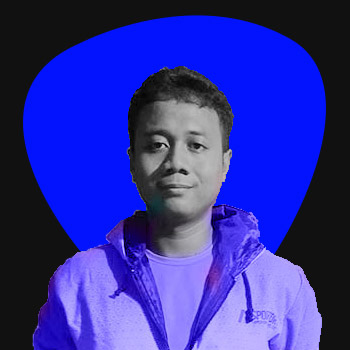
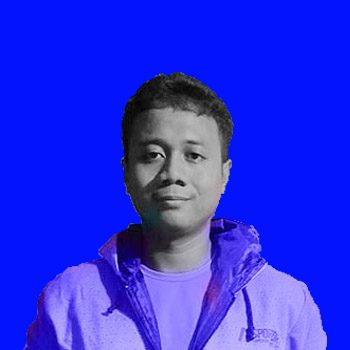
melakukan perbaikan pada navbar di file css/style.css img/bg-new.jpg index.html js/script.js

diff --git a/index.html b/index.html
@@ -17,21 +17,26 @@
  
   <body>
      <!--  <First nav>  -->
-    <nav class="navbar navbar-dark navbar-expand-md navbar-fixed-top">
+    <nav class="navbar  navbar-inverse navbar-fixed-top">
        <div class="container">
-        <a class="navbar-brand " href="parallax.html" >
-          <span class="brand">Candra Yusuf Irawan</span>
-        </a>
         <div class="navbar-header">
-         
-          <button type="button" class="navbar-toggle collapsed" data-toggle="collapse" data-target="#bs-example-navbar-collapse-1" aria-expanded="false">             
-          <span class="glyphicon glyphicon-menu-hamburger" aria-hidden="true"></span> 
-        
-      </button>    
+          
+          <button type="button" class="navbar-toggle collapsed" data-toggle="collapse" data-target="#bs-example-navbar-collapse-1" aria-expanded="false">
+            <span class="sr-only">Toggle navigation</span>
+            <span class="icon-bar"></span>
+            <span class="icon-bar"></span>
+            <span class="icon-bar"></span>
+          </button>
+          <a  href="parallax.html" class="navbar-brand " style="color: rgb(2, 19, 252);">
+            <span class="brand">Candra Yusuf Irawan</span>
+          </a>
         </div>
+
+       
+
          <div class="collapse navbar-collapse" id="bs-example-navbar-collapse-1">
-         <ul class="nav navbar-nav   text-center navbar-right">
-          <li class="li1"><a href="#home"  class="page-scroll "><span class="glyphicon glyphicon glyphicon-home" aria-hidden="true"></span>Home</a></li>
+         <ul class="nav navbar-nav  text-center navbar-right">
+          <li class="li1"><a href="#home" class="page-scroll "><span class="glyphicon glyphicon glyphicon-home" aria-hidden="true"></span>Home</a></li>
           <li class="li2"><a href="#about" class="page-scroll"><span class="glyphicon glyphicon glyphicon-user" aria-hidden="true"></span>About</a></li>
           <li class="li3"><a href="#portfolio" class="page-scroll"><span class="glyphicon glyphicon glyphicon-book" aria-hidden="true"></span>Portfolio</a></li>
           <li class="li4"><a href="#contact" class="page-scroll"><span class="glyphicon glyphicon glyphicon-earphone" aria-hidden="true"></span>Contact</a></li>
@@ -43,14 +48,17 @@
     <!--Last Navbar-->
      
     <!--Jumbotron-->
-      <section class="jumbotron">
-        <div class="container text-center">
-          <img src="img/bg-new.jpg" width="300" class="Myimage"> 
-          <div class="lead">       
-            <h6 class="satu">I'm Candra Yusuf Irawan</h6>
-            <h6 class="dua">Programmer Front End </h6>
-            <p class="ptiga">Creative Portfolio</p>
-          </div>     
+      <section class="jumbotron text-center">
+        <div class="container ">
+           
+              <div class="lead">    
+                <img src="img/cdr.jpg" width="200" class="img-circle"> 
+                <h6 class="satu">I'm Candra Yusuf Irawan</h6>
+                <h6 class="dua">Programmer Front End </h6>
+                <p class="ptiga">Creative Portfolio</p>
+              </div>    
+        
+              
         </div>
       </section>
      
@@ -66,27 +74,24 @@
 
           <div class="row">
            <div class="col-sm-6">
-            <p class="pKiri">Saya Candra Yusuf Irawan jurusan sistem Komputer  Universitas Borobudur jakarta Lulusan tahun 2022. Aktivitas saya saat ini adalah sebagai jobseeker/pencari kerja dan sedang berlatih meningkatkan kemampuan  bahasa pemrograman JavaScript, Git, dan github. Saya memiliki minat karir
-              sebagai Frontend Developer dan mampu dalam melakukan pembuatan website menggunakan HTML, CSS, JavaScript dengan framework Bootstrap. Saya juga pernah aktif dalam kegiatan Organisasi pada acara LDKOM
-            (Latihan dasar kepemimpinan Organisasi Mahasiswa) 2019 di Bogor.</p>
+            <p class="pKiri">Saya Candra Yusuf Irawan jurusan sistem Komputer  Universitas Borobudur jakarta Lulusan tahun 2022. Aktivitas saya saat ini adalah sebagai jobseeker/pencari kerja dan sedang berlatih meningkatkan kemampuan  bahasa pemrograman JavaScript. Selain meningkatkan skill bahasa pemrograman Saya
+              juga sedang berlatih dan memahami tata cara penggunaan git dan github. Saya memiliki minat karir
+              sebagai Frontend Developer dan mampu dalam melakukan pembuatan website menggunakan HTML, CSS, JavaScript dengan framework Bootstrap.</p>
            
           
           </div>
             <div class="col-sm-6">
               <p class="pKanan" > 
-                Kampus saya mengajarkan saya tentang dasar-dasar pemrograman seperti html dan css, Teliti terhadap kesalahan variabel, teliti terhadap titik koma, mengajarkan bagaimana caranya bertanggungjawab, berkomunikasi dengan baik dalam tim,
-                kerjasama tim, mengatasi masalah, dan mengajarkan bagaimana caranya bekerja keras. Aktivitas  yang saya lakukan 
-                selama saya kuliah hingga selesai pendidikan adalah sebagai berikut.
-                <ol class="Listp">
+                 Aktivitas  yang saya lakukan selama saya kuliah hingga selesai pendidikan adalah sebagai berikut.
+                <ol>
                   <li>Membuat Form input sederhana menggunakan HTML yang umumnya digunakan untuk proses login, mengirim data, dan yang lainnya</li>
                   <li>Membuat tombol button untuk mengirim data menggunakan HTML</li>
                   <li>Membuat List terurut yang didalamnya terdapat item - item seperti home, about, dengan menggunakan HTML</li>
-                  <li>Membentuk 2 orang tim untuk mengerjakan tugas, membuat tabel yang didalamnya terdapat tampilan image, dalam tabel tersebut harus menampilkan 1 baris 3 kolom</li>
+                  <li>Membentuk 2 orang tim untuk mengerjakan tugas, membuat tabel yang didalamnya terdapat tampilan image, 1 baris 3 kolom</li>
                   <li>Membuat website sederhana menggunakan HTML dan CSS</li>
                   <li>Membuat responsive mobile sehingga dapat digunakan di hp android menggunakan HTML, CSS, JavaScript</li>
                   <li>Membuat Website menggunakan framework Bootstrap versi 3.3 dengan HTML, CSS, Javascript</li>
-                  <li>Membuat Website menggunakan Bootstrap versi terbaru yaitu 5.0  menggunakan HTML, dan CSS.
-                    
+                  <li>Membuat Website menggunakan Bootstrap versi terbaru yaitu 5.0  menggunakan HTML, dan CSS.   
                   </li>
                   <li>Membuat Website Company, menggunakan framework materializecss dengan code HTML, CSS, dan Javascript.</li>
                 </ol>

diff --git a/js/script.js b/js/script.js
@@ -25,7 +25,7 @@ $(window).scroll(function () {
   var wScroll = $(this).scrollTop();
 
   //Jumbotron
-  $(" .jumbotron .Myimage").css({
+  $(" .jumbotron img").css({
     transform: "translate(0px, " + wScroll / 4 + "%)",
   });
   //////////////////////
@@ -54,13 +54,13 @@ $(window).scroll(function () {
 //fa
 
 ///////////////////////
-const ulLiA = document.querySelectorAll(".navbar-expand-md ul li a");
+const ulLiA = document.querySelectorAll(".navbar ul li a");
 ulLiA[0].style.color = "rgb(255,255,255)";
 ulLiA[1].style.color = "rgb(255,255,255)";
 ulLiA[2].style.color = "rgb(255,255,255)";
 ulLiA[3].style.color = "rgb(255,255,255)";
 ///////////////////////
-const li1 = document.querySelectorAll(".navbar-expand-md ul li a");
+const li1 = document.querySelectorAll(".navbar ul li a");
 li1[0].addEventListener("mouseenter", function () {
   li1[0].style.color = "rgb(255, 255, 255)";
   li1[0].style.background = "rgb(70, 3, 255)";
@@ -76,7 +76,7 @@ li1[0].addEventListener("mouseleave", function () {
   li1[0].style.letterSpacing = "0.0em";
 });
 //////////////////////////////////////////////////
-const li2 = document.querySelectorAll(".navbar-expand-md ul li a");
+const li2 = document.querySelectorAll(".navbar ul li a");
 li2[1].addEventListener("mouseenter", function () {
   li2[1].style.color = "rgb(255, 255, 255)";
   li2[1].style.background = "rgb(70, 3, 255)";
@@ -90,7 +90,7 @@ li2[1].addEventListener("mouseleave", function () {
   li2[1].style.letterSpacing = "0.0em";
 });
 ////////////////////////////////////////////////
-const li3 = document.querySelectorAll(".navbar-expand-md ul li a");
+const li3 = document.querySelectorAll(".navbar ul li a");
 li3[2].addEventListener("mouseenter", function () {
   li3[2].style.color = "rgb(255, 255, 255)";
   li3[2].style.background = "rgb(70, 3, 255)";
@@ -104,7 +104,7 @@ li3[2].addEventListener("mouseleave", function () {
   li3[2].style.letterSpacing = "0.0em";
 });
 ////////////////////////////////////////////
-const li4 = document.querySelectorAll(".navbar-expand-md ul li a");
+const li4 = document.querySelectorAll(".navbar  ul li a");
 li4[3].addEventListener("mouseenter", function () {
   li4[3].style.color = "rgb(255, 255, 255)";
   li4[3].style.background = "rgb(70, 3, 255)";

diff --git a/css/style.css b/css/style.css
@@ -6,45 +6,43 @@ html {
   margin-top: 0px;
 }
 
-.glyphicon-menu-hamburger {
+.navbar-toggle {
   color: rgb(255, 255, 255);
-  padding: 2px;
 }
-.glyphicon-menu-hamburger:hover {
+/* .glyphicon-menu-hamburger:hover {
   transition: 0.5s;
   background-color: rgb(2, 19, 252);
   border-radius: 6px;
+}  */
+.glyphicon-home,
+.glyphicon-user,
+.glyphicon-book,
+.glyphicon-earphone {
+  margin-right: 5px;
 }
-.glyphicon {
-  margin-right: 8px;
-}
-
-.navbar-expand-md {
+.navbar {
   background-color: rgb(18, 18, 18);
   opacity: 0.8;
-  font-size: 15px;
   font-family: calibri;
 }
 .navbar-brand {
   font-family: "Allura";
   font-size: 25px;
-  color: rgb(2, 19, 252);
+
   font-weight: bold;
 }
 
 .jumbotron {
   background-color: rgb(17, 17, 17);
   color: #fff;
+  height: 660px;
   background-size: cover;
   overflow: hidden;
-  height: 660px;
+  padding-top: 60px;
 }
 
-.Myimage {
-  margin-top: 35px;
-  border-bottom-right-radius: 70px;
-  border-bottom-left-radius: 70px;
-  box-shadow: 0px 3px 0px rgb(42, 0, 252);
+.jumbotron .lead {
+  padding-top: 10px;
 }
 .jumbotron .satu {
   font-size: 27px;
@@ -98,6 +96,7 @@ section {
   opacity: 1;
   transform: translate(0, 0);
 }
+
 .portfolio {
   background-image: url(../img/parallax.jpg);
   background-size: cover;
